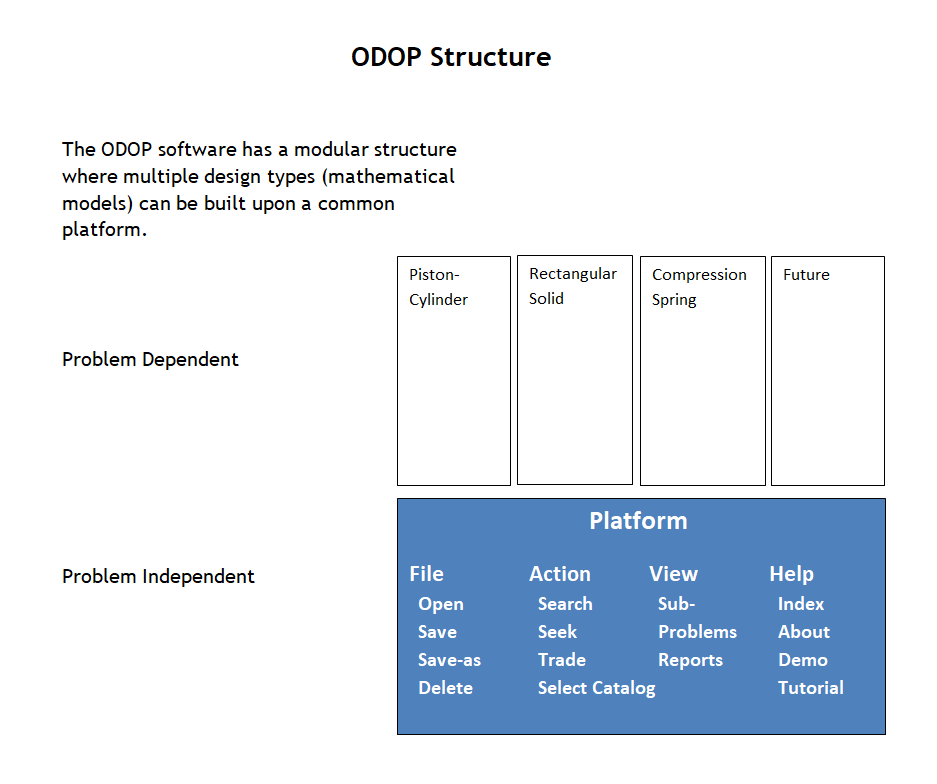
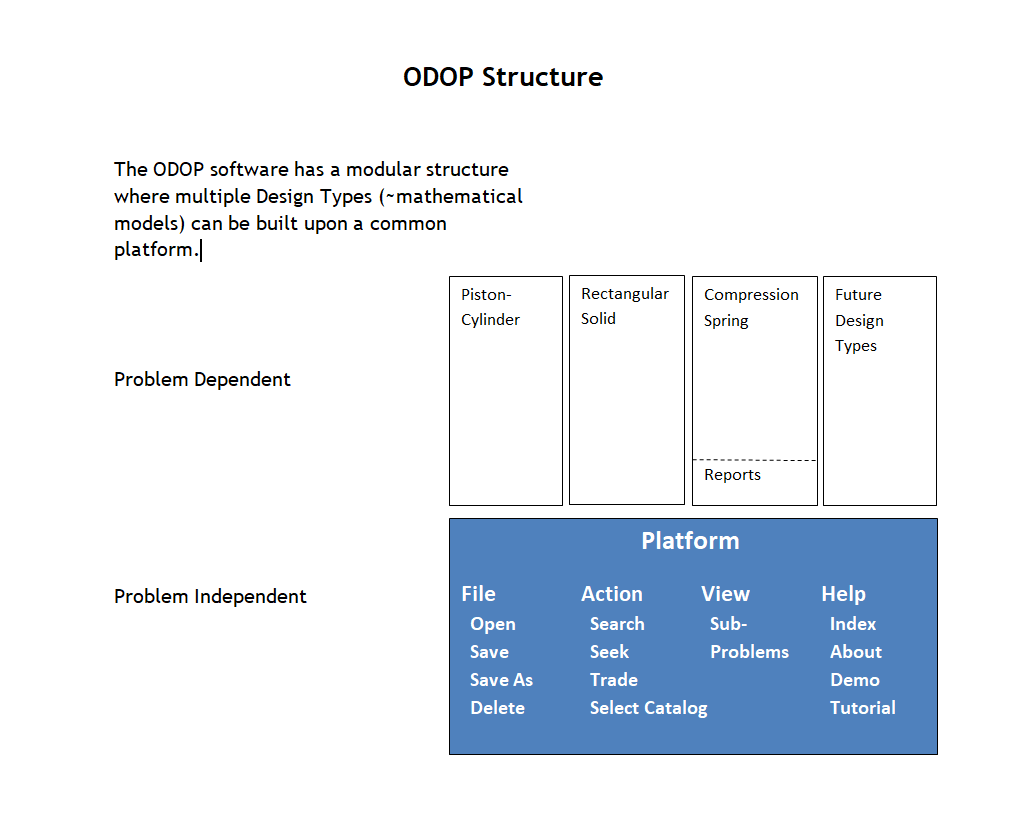
212 Continue work on Help entries for milestone 2.3
Fixed broken link.
Wrapping up for the day.

diff --git a/docs/Help/gettingStarted.md b/docs/Help/gettingStarted.md
@@ -1,6 +1,6 @@
 #### Getting Started   
 
-**Under Construction**
+**Under Construction**   
 This page is still a work in progress !
 
 **Getting Started**   
@@ -17,6 +17,9 @@ design types to work with: Piston-Cylinder, Rectangular Solid and Compression Sp
 If you are interested in learning about capabilities and concepts,
 the Rectangular Solid design type is intended as an easy to understand 
 demonstration problem and is a good place to start.
+
+Note that the [Terminology](terminology) page of the on-line documentation may be 
+helpful with some of the terms utilized here.
 
 
 **Launching the program**   
@@ -65,6 +68,7 @@ This area provides feedback about the solution process.
 If you hover the cursor over a heading, a tool-tip will pop up to
 provide more information regarding each item.
 * [Result Section](./png/ResultSection.png)   
+* [Result Section ToolTip](./png/ResultSectionToolTip.png)   
 
 There are numeric entry fields for each of the variables.
 The user can change the value of Independent Variables by positioning
@@ -87,7 +91,7 @@ This clip illustrates how a Calculation Input can expand into a table
 that the user can select from.
 In this case, the user selects a material and the appropriate value of
 density is provided to the calculations.
-* [CalcInputTable](./png/CalcInputTable.png)   
+* [Calculation Input Table](./png/CalcInputTable.png)   
 
 Constraints are single sided (MAX or MIN) limits imposed on the 
 selected Variable. 
@@ -103,7 +107,7 @@ and the 70 pound limit on weight.
 In order to FIX the value of an Independent Variable, put a check
 in the box immediately to the right of its value.
 Note the checkboxes highlighted by the red oval in  this example.
-* [IV_Fix](./png/IV_Fix.png)   
+* [FIX an Independent Variable](./png/IV_Fix.png)   
 
 In order to FIX the value of a Dependent Variable, put a check 
 in the box immediately to the right of its value.
@@ -111,16 +115,17 @@ This will cause both associated constraints to be check and the
 corresponding constraint entry fields to become available for input.
 Enter the FIX value into either entry field.
 Thus, the FIX of a Dependent Variable is effectively a double-sided constraint.
-* [DV_Fix](./png/DV_Fix.png)   
+* [FIX a Dependent Variable](./png/DV_Fix.png)   
 
 
 **USING HELP**   
 
- A good place to go from here is to get a good look at what is available 
+ Now that you have completed a tour of the main page,
+ it would be good to get a look at what is available 
  in the on-line documentation. 
  The various entries that are available after selecting the Help : Index menu item
  cover the generic features and capabilities of the ODOP software.
- If time is available, work through those entries from top to bottom.
+ If time is available, read through those entries from top to bottom.
  
  On-line documentation for ODOP:Spring appears in the Available Design Types section.
 
@@ -144,7 +149,7 @@ design examples and sample problems.
 The focus is on solving the problem, not explaining the operation of the software.
 
 
-**Spring Design Process**
+**Spring Design Process**   
 The remainder of this discussion will use examples from
 the compression spring design type.
 

diff --git a/docs/Help/terminology.md b/docs/Help/terminology.md
@@ -2,13 +2,22 @@
 
 The following terms have special meanings used in the context of this program.
 
-**Mathematical Model**   
+**MATHEMATICAL MODEL**   
 A set of equations that describes the behavior a real world problem of interest.
 Within the context of the ODOP software, the terms "mathematical model" and
-"Design Type" are roughly equivalent.
+"Design Type" are closely related.
 Each design type has a mathematical model at its core.
 For examples, see: [Piston-Cylinder](./DesignTypes/png/PCylDiagram.png) and 
 [Rectangular Solid](./DesignTypes/png/RectangularSolidDiagram.png).
+
+** DESIGN TYPES**
+A Design Type is a specific design problem.  As noted above, each 
+Design Type has a mathematical model of some aspect of the real world
+at its core.  Examples included with the ODOP software include a 
+Piston-Cylinder design, a Rectangular Solid and a Compression Spring.
+A "design" is a specific instance of a Design Type.  The ODOP software
+will store multiple designs of each Design Type in its database 
+(a.k.a. design library).
 
 **INDEPENDENT VARIABLES** &nbsp;  (inputs, design parameters)   
 The independent variables are the inputs of the design equations.
@@ -35,7 +44,8 @@ See the FIX entry below for more details.
 Referred to as "constants" in earlier versions of the software, 
 Calculation Inputs are inputs to the design equations and are adjustable by the
 user, but are not manipulated by the search algorithm or subject to FIX or constraints. 
-Calculation Inputs frequently represent material properties or other physical constants.
+Calculation Inputs frequently represent material properties or other 
+physical parameters.
 
 **CONSTRAINTS**   
 Constraints are one sided boundaries that represent goals for the design

diff --git a/docs/About/Intro.md b/docs/About/Intro.md
@@ -65,8 +65,8 @@ easy to understand demonstration problem.
 
 * GETTING STARTED   
 
-If you got to this point without already running the ODOP software, 
-there is a page to help you get started.  See:...
+If you have arrived at this point without already running the ODOP software, 
+there is a page to help you get started.  See:   
 [Getting Started](../Help/gettingStarted)
 
 
